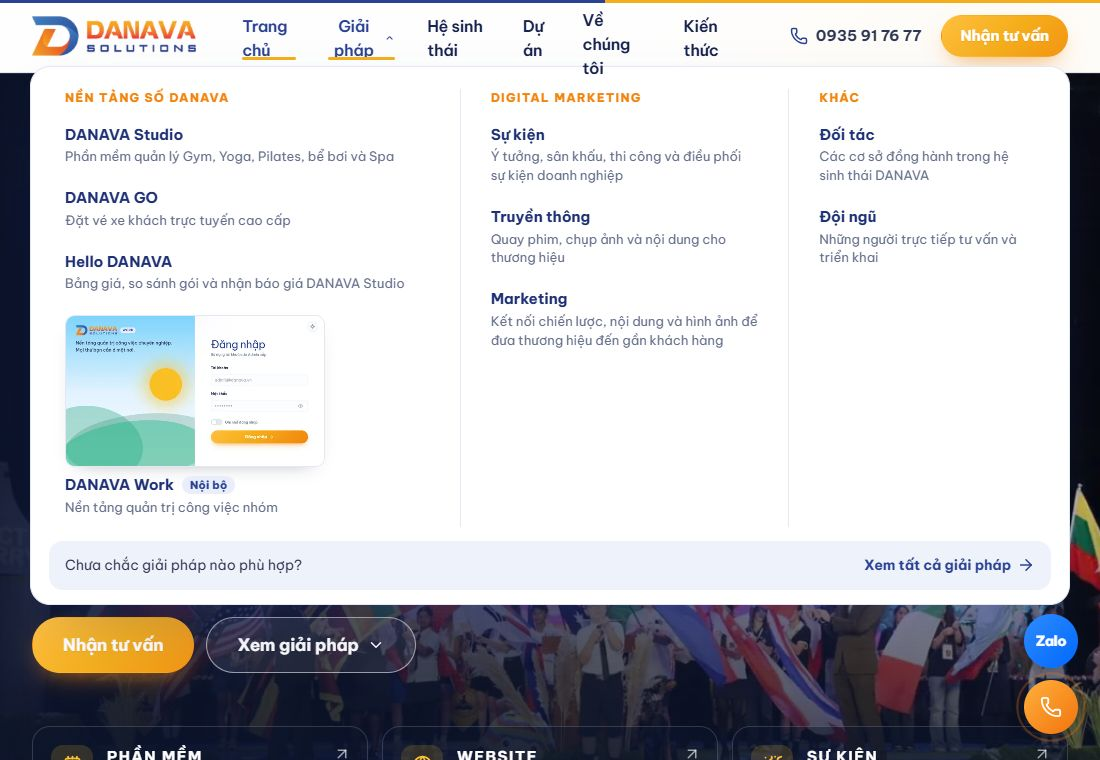
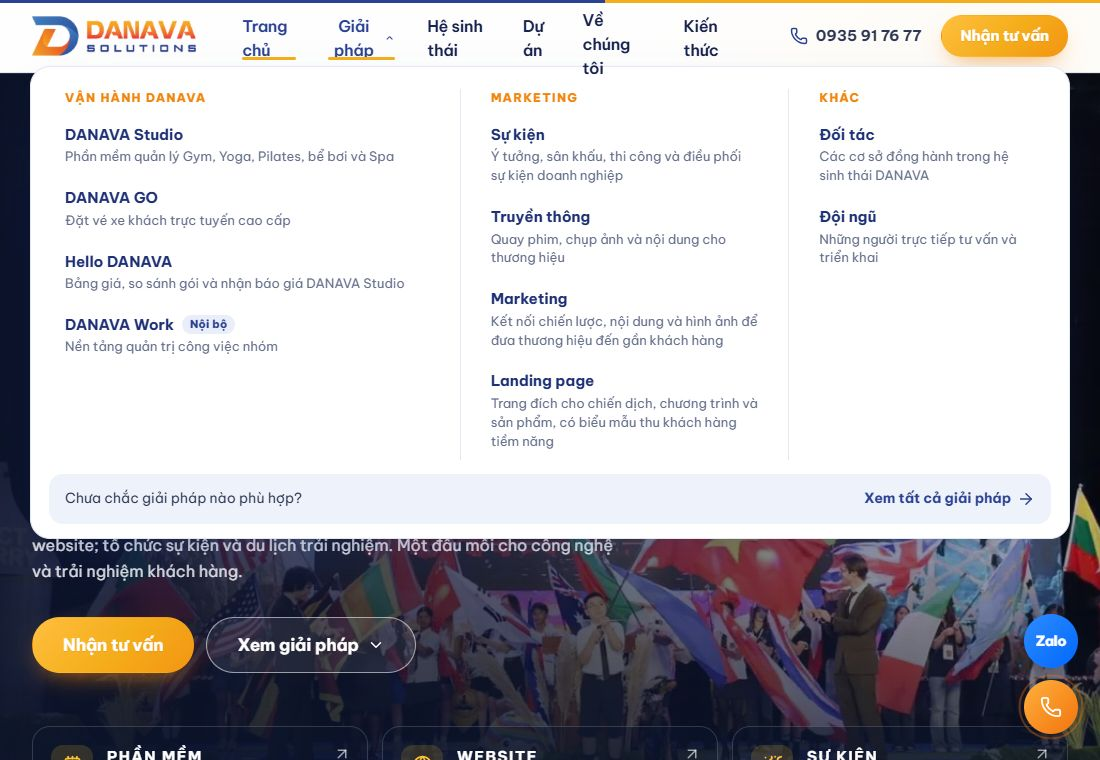
feat: text-only Giải pháp menu with renamed columns; drop footer wordmark; real Hello quote shot
- Menu: no images (renderer ignores the field, CMS hides it, thumbnails
  removed); columns "Vận hành DANAVA", "Marketing" (+ "Landing page" →
  /giai-phap/thiet-ke-website/), "Khác".
- Footer: remove the giant "DANAVA" wordmark.
- Hello page: new full screenshot of the real quote form (plans, add-ons,
  contact, estimate) from hello.danava.vn; remove the phone mockup that
  covered the total.
- Report section 15.

diff --git a/lib/blocks.ts b/lib/blocks.ts
@@ -48,24 +48,25 @@ const PAGES = {
   'case-study': { ctaTitle: 'Bạn cần một website có bản sắc riêng?', ctaLead: 'Gửi mục tiêu và vài website bạn thích, DANAVA đề xuất cấu trúc, phong cách và báo giá.' }
 };
 
-/** Menu "Giải pháp" (mega menu 3 cột). Mục không có đường dẫn chỉ hiển thị (vd. công cụ nội bộ). */
+/** Menu "Giải pháp" (mega menu 3 cột, chỉ chữ — không hiển thị ảnh). Mục không có đường dẫn chỉ hiển thị (vd. công cụ nội bộ). */
 const MENU = {
   columns: [
     {
-      title: 'Nền tảng số DANAVA',
+      title: 'Vận hành DANAVA',
       items: [
         { label: 'DANAVA Studio', desc: 'Phần mềm quản lý Gym, Yoga, Pilates, bể bơi và Spa', href: '/giai-phap/danava-studio/', badge: '', image: '' },
         { label: 'DANAVA GO', desc: 'Đặt vé xe khách trực tuyến cao cấp', href: '/giai-phap/danava-go/', badge: '', image: '' },
         { label: 'Hello DANAVA', desc: 'Bảng giá, so sánh gói và nhận báo giá DANAVA Studio', href: '/giai-phap/hello-danava/', badge: '', image: '' },
-        { label: 'DANAVA Work', desc: 'Nền tảng quản trị công việc nhóm', href: '/giai-phap/danava-work/', badge: 'Nội bộ', image: '/assets/menu/danava-work.webp' }
+        { label: 'DANAVA Work', desc: 'Nền tảng quản trị công việc nhóm', href: '/giai-phap/danava-work/', badge: 'Nội bộ', image: '' }
       ]
     },
     {
-      title: 'Digital Marketing',
+      title: 'Marketing',
       items: [
         { label: 'Sự kiện', desc: 'Ý tưởng, sân khấu, thi công và điều phối sự kiện doanh nghiệp', href: '/giai-phap/su-kien-truyen-thong/', badge: '', image: '' },
         { label: 'Truyền thông', desc: 'Quay phim, chụp ảnh và nội dung cho thương hiệu', href: '/giai-phap/su-kien-truyen-thong/#hang-muc', badge: '', image: '' },
-        { label: 'Marketing', desc: 'Kết nối chiến lược, nội dung và hình ảnh để đưa thương hiệu đến gần khách hàng', href: '/giai-phap/digital-marketing/', badge: '', image: '' }
+        { label: 'Marketing', desc: 'Kết nối chiến lược, nội dung và hình ảnh để đưa thương hiệu đến gần khách hàng', href: '/giai-phap/digital-marketing/', badge: '', image: '' },
+        { label: 'Landing page', desc: 'Trang đích cho chiến dịch, chương trình và sản phẩm, có biểu mẫu thu khách hàng tiềm năng', href: '/giai-phap/thiet-ke-website/', badge: '', image: '' }
       ]
     },
     {

diff --git a/components/Shell.tsx b/components/Shell.tsx
@@ -11,20 +11,23 @@ type MenuItemData = { label: string; desc: string; href: string; badge: string; 
 /** Một mục menu Giải pháp: trang trong website → Link; https → tab mới; không có đường dẫn → chỉ hiển thị. */
 function MenuItem({ it, onPick, compact = false }: { it: MenuItemData; onPick?: () => void; compact?: boolean }) {
   const external = it.href.startsWith('https://');
+  // Menu chỉ dùng chữ (yêu cầu chủ sở hữu 20/11/2026): trường ảnh trong dữ liệu được bỏ qua
   const body = (
     <>
-      {it.image && !compact && <img className="s-mega__thumb" src={it.image} alt={`Giao diện ${it.label}`} width={640} height={375} loading="lazy" decoding="async" />}
-      <span className="s-mega__label">
-        {it.label}
-        {it.badge && <span className="s-mega__badge">{it.badge}</span>}
-        {external && <ArrowUpRight aria-hidden="true" />}
+      <span className="s-mega__txt">
+        <span className="s-mega__label">
+          {it.label}
+          {it.badge && <span className="s-mega__badge">{it.badge}</span>}
+          {external && <ArrowUpRight aria-hidden="true" />}
+        </span>
+        {it.desc && !compact && <span className="s-mega__sub">{it.desc}</span>}
       </span>
-      {it.desc && !compact && <span className="s-mega__sub">{it.desc}</span>}
     </>
   );
-  if (!it.href || !safeHref(it.href)) return <div className="s-mega__link is-static">{body}</div>;
-  if (external) return <a className="s-mega__link" href={it.href} target="_blank" rel="noopener" onClick={onPick}>{body}<span className="s-sr"> (mở tab mới)</span></a>;
-  return <Link className="s-mega__link" href={it.href} onClick={onPick}>{body}</Link>;
+  const cls = 's-mega__link';
+  if (!it.href || !safeHref(it.href)) return <div className={`${cls} is-static`}>{body}</div>;
+  if (external) return <a className={cls} href={it.href} target="_blank" rel="noopener" onClick={onPick}>{body}<span className="s-sr"> (mở tab mới)</span></a>;
+  return <Link className={cls} href={it.href} onClick={onPick}>{body}</Link>;
 }
 
 const NAV = [
@@ -261,7 +264,6 @@ export function Footer() {
           </a>
         </div>
       </div>
-      <span className="s-footer__giant" aria-hidden="true">DANAVA</span>
     </footer>
   );
 }

diff --git a/components/adminBlockConfig.ts b/components/adminBlockConfig.ts
@@ -27,10 +27,11 @@ export const BLOCK_META: Record<BlockKey, { title: string; desc: string; config:
   },
   menu: {
     title: 'Menu Giải pháp',
-    desc: 'Các cột trong menu "Giải pháp" trên đầu trang (máy tính) và trong menu điện thoại. Mục để trống đường dẫn chỉ hiển thị, không bấm được (vd. công cụ nội bộ). Đường dẫn: /trang-trong-website/ hoặc https://…',
+    desc: 'Các cột trong menu "Giải pháp" trên đầu trang (máy tính) và trong menu điện thoại — chỉ chữ, không có ảnh. Mục để trống đường dẫn chỉ hiển thị, không bấm được (vd. công cụ nội bộ). Đường dẫn: /trang-trong-website/ hoặc https://…',
     config: {
+      hidden: ['image'],
       labels: { ...COMMON, columns: 'Các cột', items: 'Mục trong cột', label: 'Tên', desc: 'Mô tả ngắn', href: 'Đường dẫn (để trống = chỉ hiển thị)', badge: 'Nhãn nhỏ (vd. Mới, Nội bộ)',
-        image: 'Ảnh (tùy chọn, hiện thành thẻ ảnh)', footText: 'Dòng cuối menu', footLabel: 'Chữ liên kết cuối menu', footHref: 'Đường dẫn cuối menu' }
+        footText: 'Dòng cuối menu', footLabel: 'Chữ liên kết cuối menu', footHref: 'Đường dẫn cuối menu' }
     }
   },
   pages: {

diff --git a/tests/blocks.test.ts b/tests/blocks.test.ts
@@ -76,10 +76,11 @@ test('hồ sơ nhân sự: thêm người mới sau khi đã lưu hồ sơ → v
 test('menu Giải pháp: 3 cột mặc định; chặn đường dẫn không an toàn', () => {
   const d = structuredClone(initial);
   const m = block(d, 'menu');
-  assert.deepEqual(m.columns.map(c => c.title), ['Nền tảng số DANAVA', 'Digital Marketing', 'Khác']);
+  assert.deepEqual(m.columns.map(c => c.title), ['Vận hành DANAVA', 'Marketing', 'Khác']);
+  assert.deepEqual(m.columns[1].items.map(i => i.label), ['Sự kiện', 'Truyền thông', 'Marketing', 'Landing page']);
   const work = m.columns[0].items.find(i => i.label === 'DANAVA Work')!;
   assert.equal(work.href, '/giai-phap/danava-work/', 'DANAVA Work dẫn tới trang giới thiệu (nút trên trang mở workspace)');
-  assert.ok(work.image);
+  assert.ok(m.columns.every(c => c.items.every(i => i.image === '')), 'menu chỉ chữ, không ảnh');
   const bad = structuredClone(blockDefaults().menu);
   bad.columns[0].items[0].href = 'javascript:alert(1)';
   assert.equal(validBlocks({ menu: bad }), false);

diff --git a/app/(site)/site-products.css b/app/(site)/site-products.css
@@ -196,7 +196,9 @@
 .phl-steps span { grid-row: span 2; display: grid; place-items: center; width: 40px; height: 40px; border-radius: 50%; background: var(--hl-blue); color: #fff; font-weight: 900; }
 .phl-steps b { font-size: 17px; }
 .phl-steps p { margin: 0; color: #6b7590; }
-.phl-quote__shots { position: relative; padding-right: clamp(0px, 7vw, 100px); }
+.phl-quote__shots { position: relative; }
+.phl-quote__shots .sc-browser img { height: auto; aspect-ratio: auto; object-fit: contain; }
+.phl-quote { grid-template-columns: minmax(0, .8fr) minmax(0, 1.2fr); }
 .phl-phone { bottom: -40px; width: clamp(110px, 14vw, 180px); }
 .phl-final { padding: 0 0 clamp(56px, 8vw, 96px); }
 .phl-final__box { padding: clamp(32px, 5vw, 60px); border-radius: 32px; text-align: center; background: radial-gradient(60% 80% at 100% 0%, rgba(246, 162, 31, .35), transparent 60%), linear-gradient(135deg, #3553c4, var(--hl-blue)); color: #e8edff; }

diff --git a/components/site/ProductPages.tsx b/components/site/ProductPages.tsx
@@ -219,8 +219,7 @@ export function HelloPage(_: { data: SiteData }) {
             <a className="phl-btn phl-btn--primary" href={HELLO.url} {...ext}>Nhận báo giá trên Hello DANAVA <ArrowUpRight aria-hidden="true" /><span className="s-sr"> (mở tab mới)</span></a>
           </div>
           <div className="phl-quote__shots">
-            <BrowserFrame src="/assets/products/hello-quote.webp" alt="Bước tùy chọn bổ sung và dự toán trên Hello DANAVA" url={HELLO.url} />
-            <figure className="phl-phone"><img src="/assets/products/hello-mobile.webp" alt="Hello DANAVA trên điện thoại" width={390} height={844} loading="lazy" /></figure>
+            <BrowserFrame src="/assets/products/hello-quote.webp" alt="Form nhận báo giá trên Hello DANAVA: chọn gói, tùy chọn bổ sung, thông tin liên hệ và dự toán" url={HELLO.url} />
           </div>
         </div>
       </section>

diff --git a/app/(site)/site-mobile.css b/app/(site)/site-mobile.css
@@ -41,7 +41,7 @@ a.s-mega__link:focus-visible { outline: 3px solid var(--s-orange); outline-offse
 .s-mega__label svg { width: 14px; height: 14px; color: var(--s-muted); }
 .s-mega__badge { padding: 2px 8px; border-radius: 999px; background: var(--s-blue-soft); color: var(--s-blue); font-size: 11px; font-weight: 800; letter-spacing: .02em; }
 .s-mega__sub { display: block; margin-top: 3px; font-size: 13px; line-height: 1.45; color: var(--s-muted); }
-.s-mega__thumb { display: block; width: 100%; max-width: 260px; aspect-ratio: 640 / 375; object-fit: cover; margin-bottom: 8px; border-radius: 10px; border: 1px solid var(--s-line); box-shadow: 0 8px 20px -14px rgba(11, 19, 43, .45); }
+.s-mega__txt { display: block; min-width: 0; }
 .s-mega--cols .s-mega__foot { margin-top: 14px; }
 @media (prefers-reduced-motion: reduce) { .s-mega--cols, .s-nav__item.is-open .s-mega--cols { transform: translate(-50%, 0); } }
 

diff --git a/app/(site)/site-theme.css b/app/(site)/site-theme.css
@@ -178,7 +178,6 @@ body:has(.s-app) { background: var(--s-bg); }
 .s-footer__list a:hover, .s-footer__legal a:hover { color: #ffd27a; }
 .s-footer__contact svg { color: var(--s-amber); }
 .s-footer__bottom { border-top-color: rgba(255, 255, 255, .14); color: #a9b6e6; }
-.s-footer__giant { display: block; margin: -0.12em 0 -0.2em; font-family: var(--s-display); font-size: clamp(5rem, 22vw, 20rem); font-weight: 600; line-height: 1; letter-spacing: -.04em; text-align: center; white-space: nowrap; color: transparent; background: linear-gradient(180deg, rgba(255, 255, 255, .22), rgba(255, 255, 255, 0) 85%); -webkit-background-clip: text; background-clip: text; user-select: none; pointer-events: none; }
 
 
 /* ---------- Hiện dần khi cuộn tới (CSS thuần; trình duyệt chưa hỗ trợ thì hiện ngay) ---------- */

diff --git a/app/(site)/site-app.css b/app/(site)/site-app.css
@@ -108,7 +108,6 @@
 
 @media (max-width: 680px) {
   /* Footer gọn hơn: chữ DANAVA khổng lồ nhỏ lại, bớt khoảng trắng */
-  .s-footer__giant { font-size: 26vw; margin-bottom: -0.25em; }
   .s-footer__top { gap: 28px 20px; }
   .s-footer__bottom { gap: 12px; }
 
